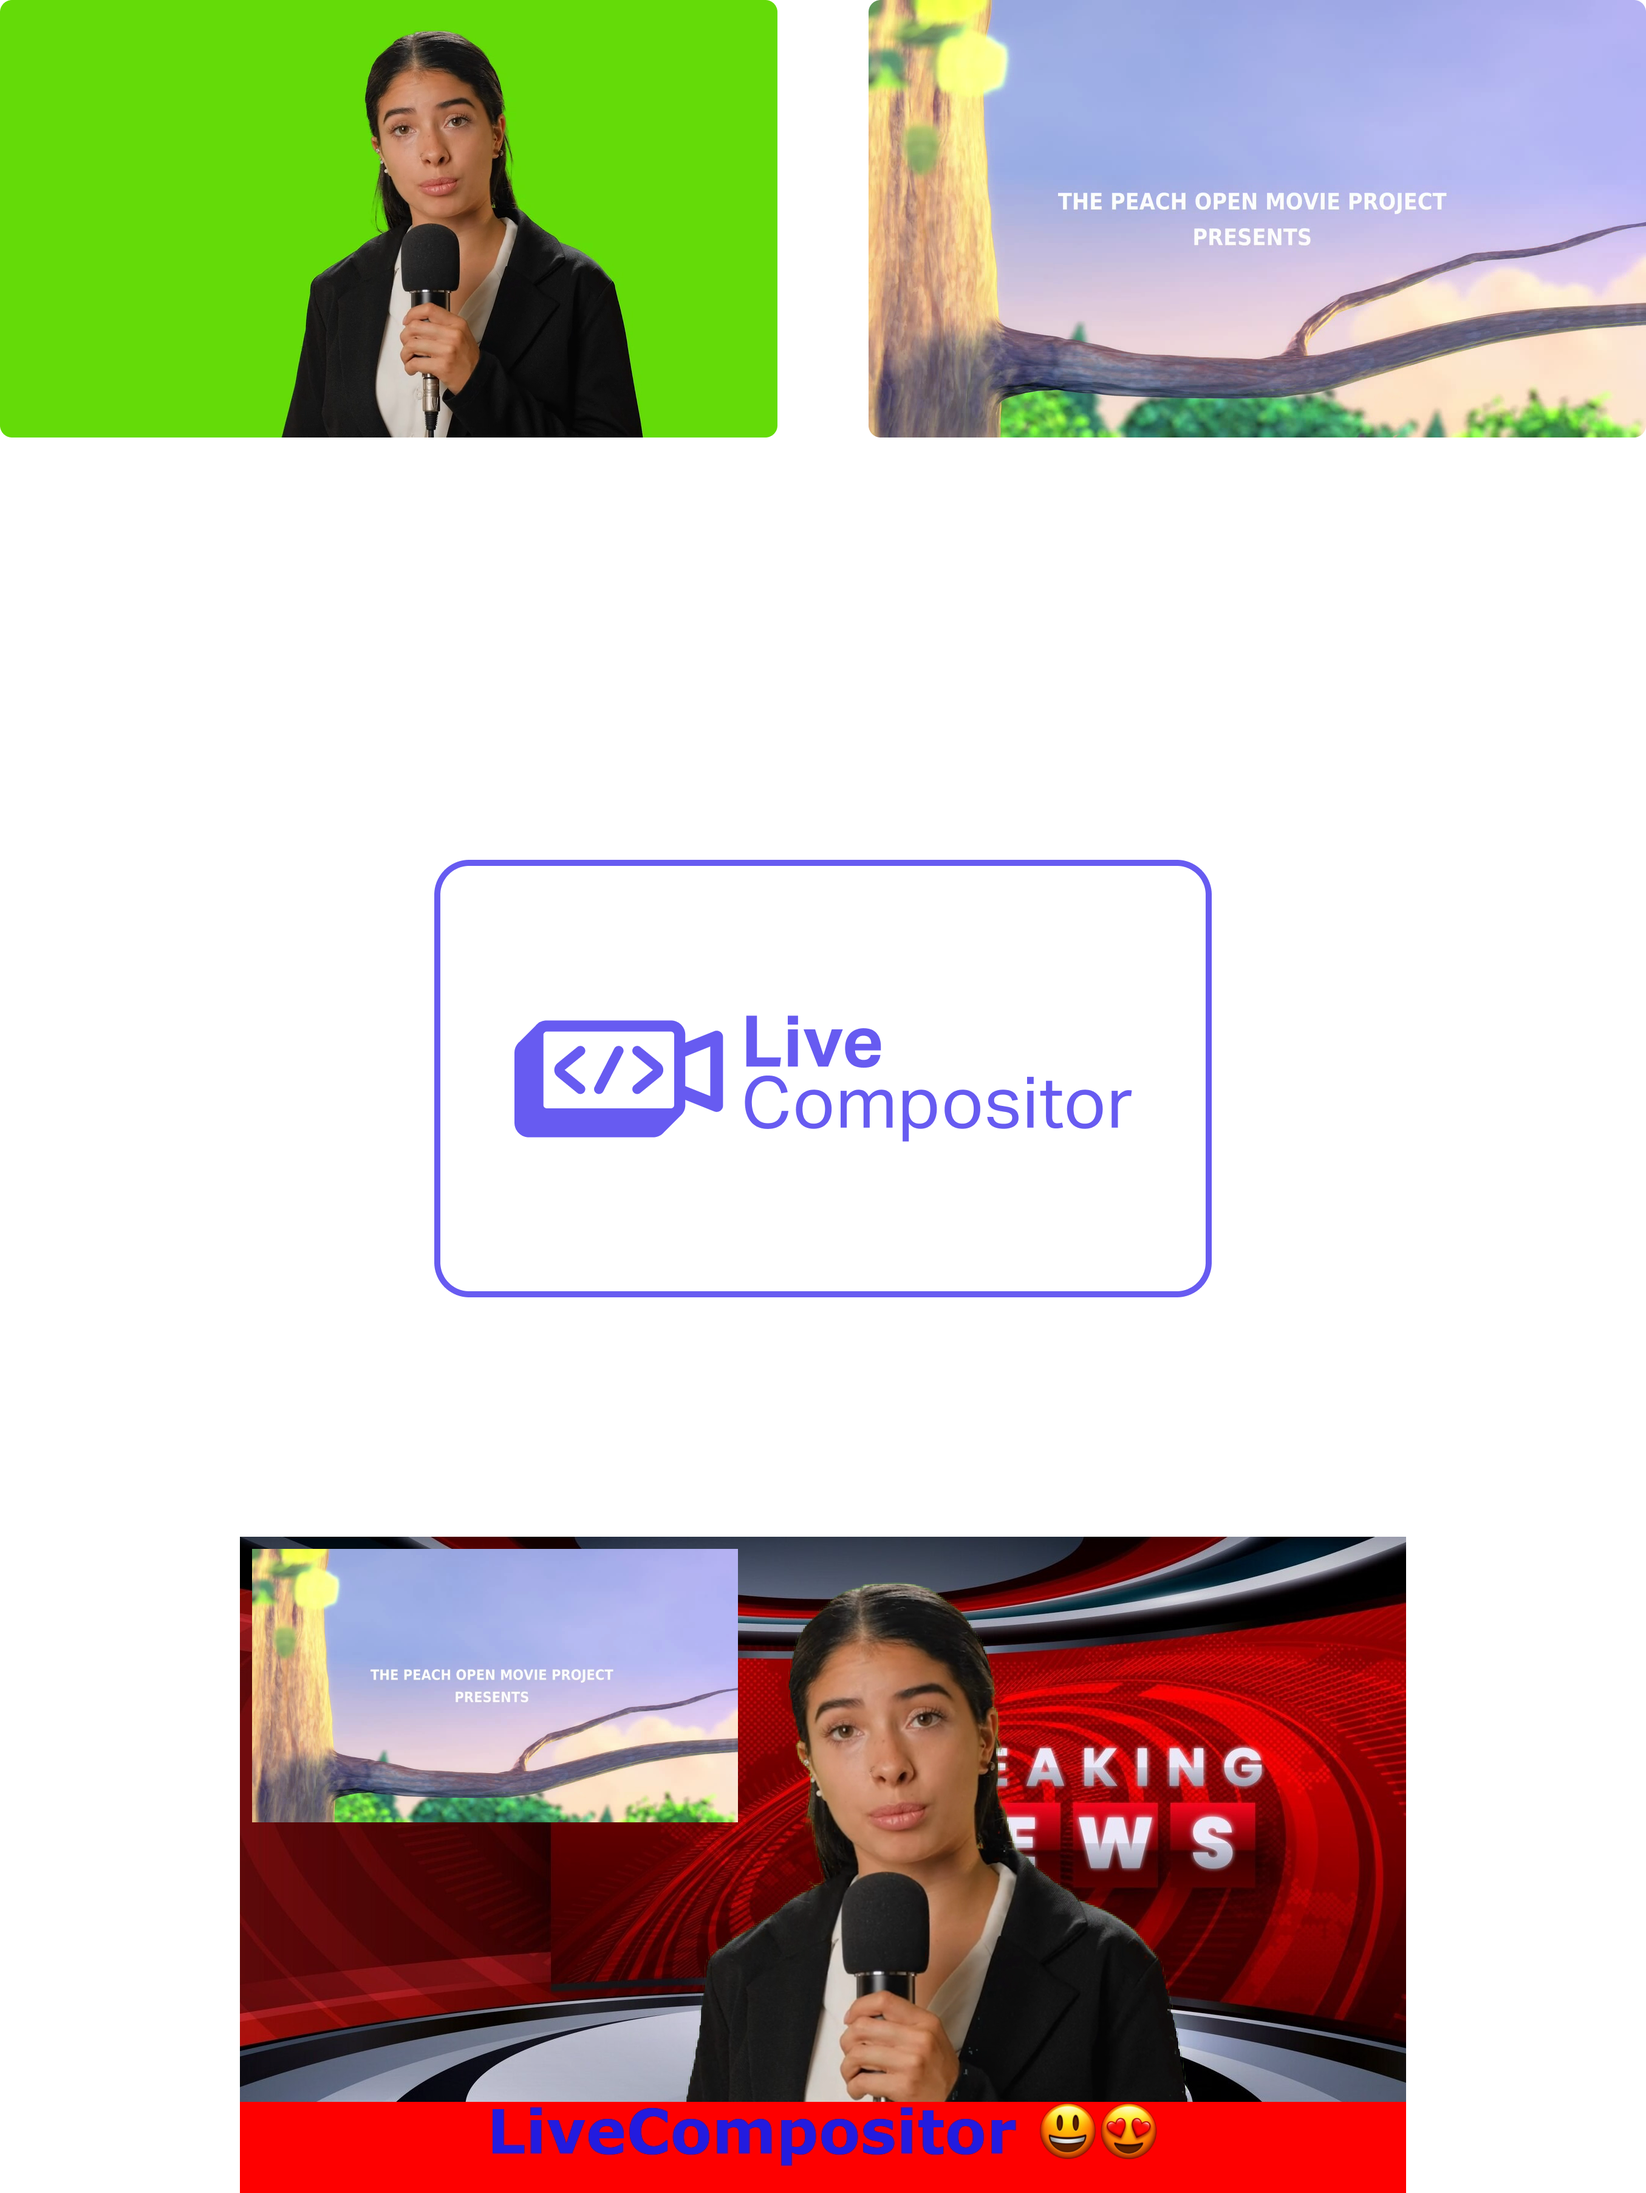
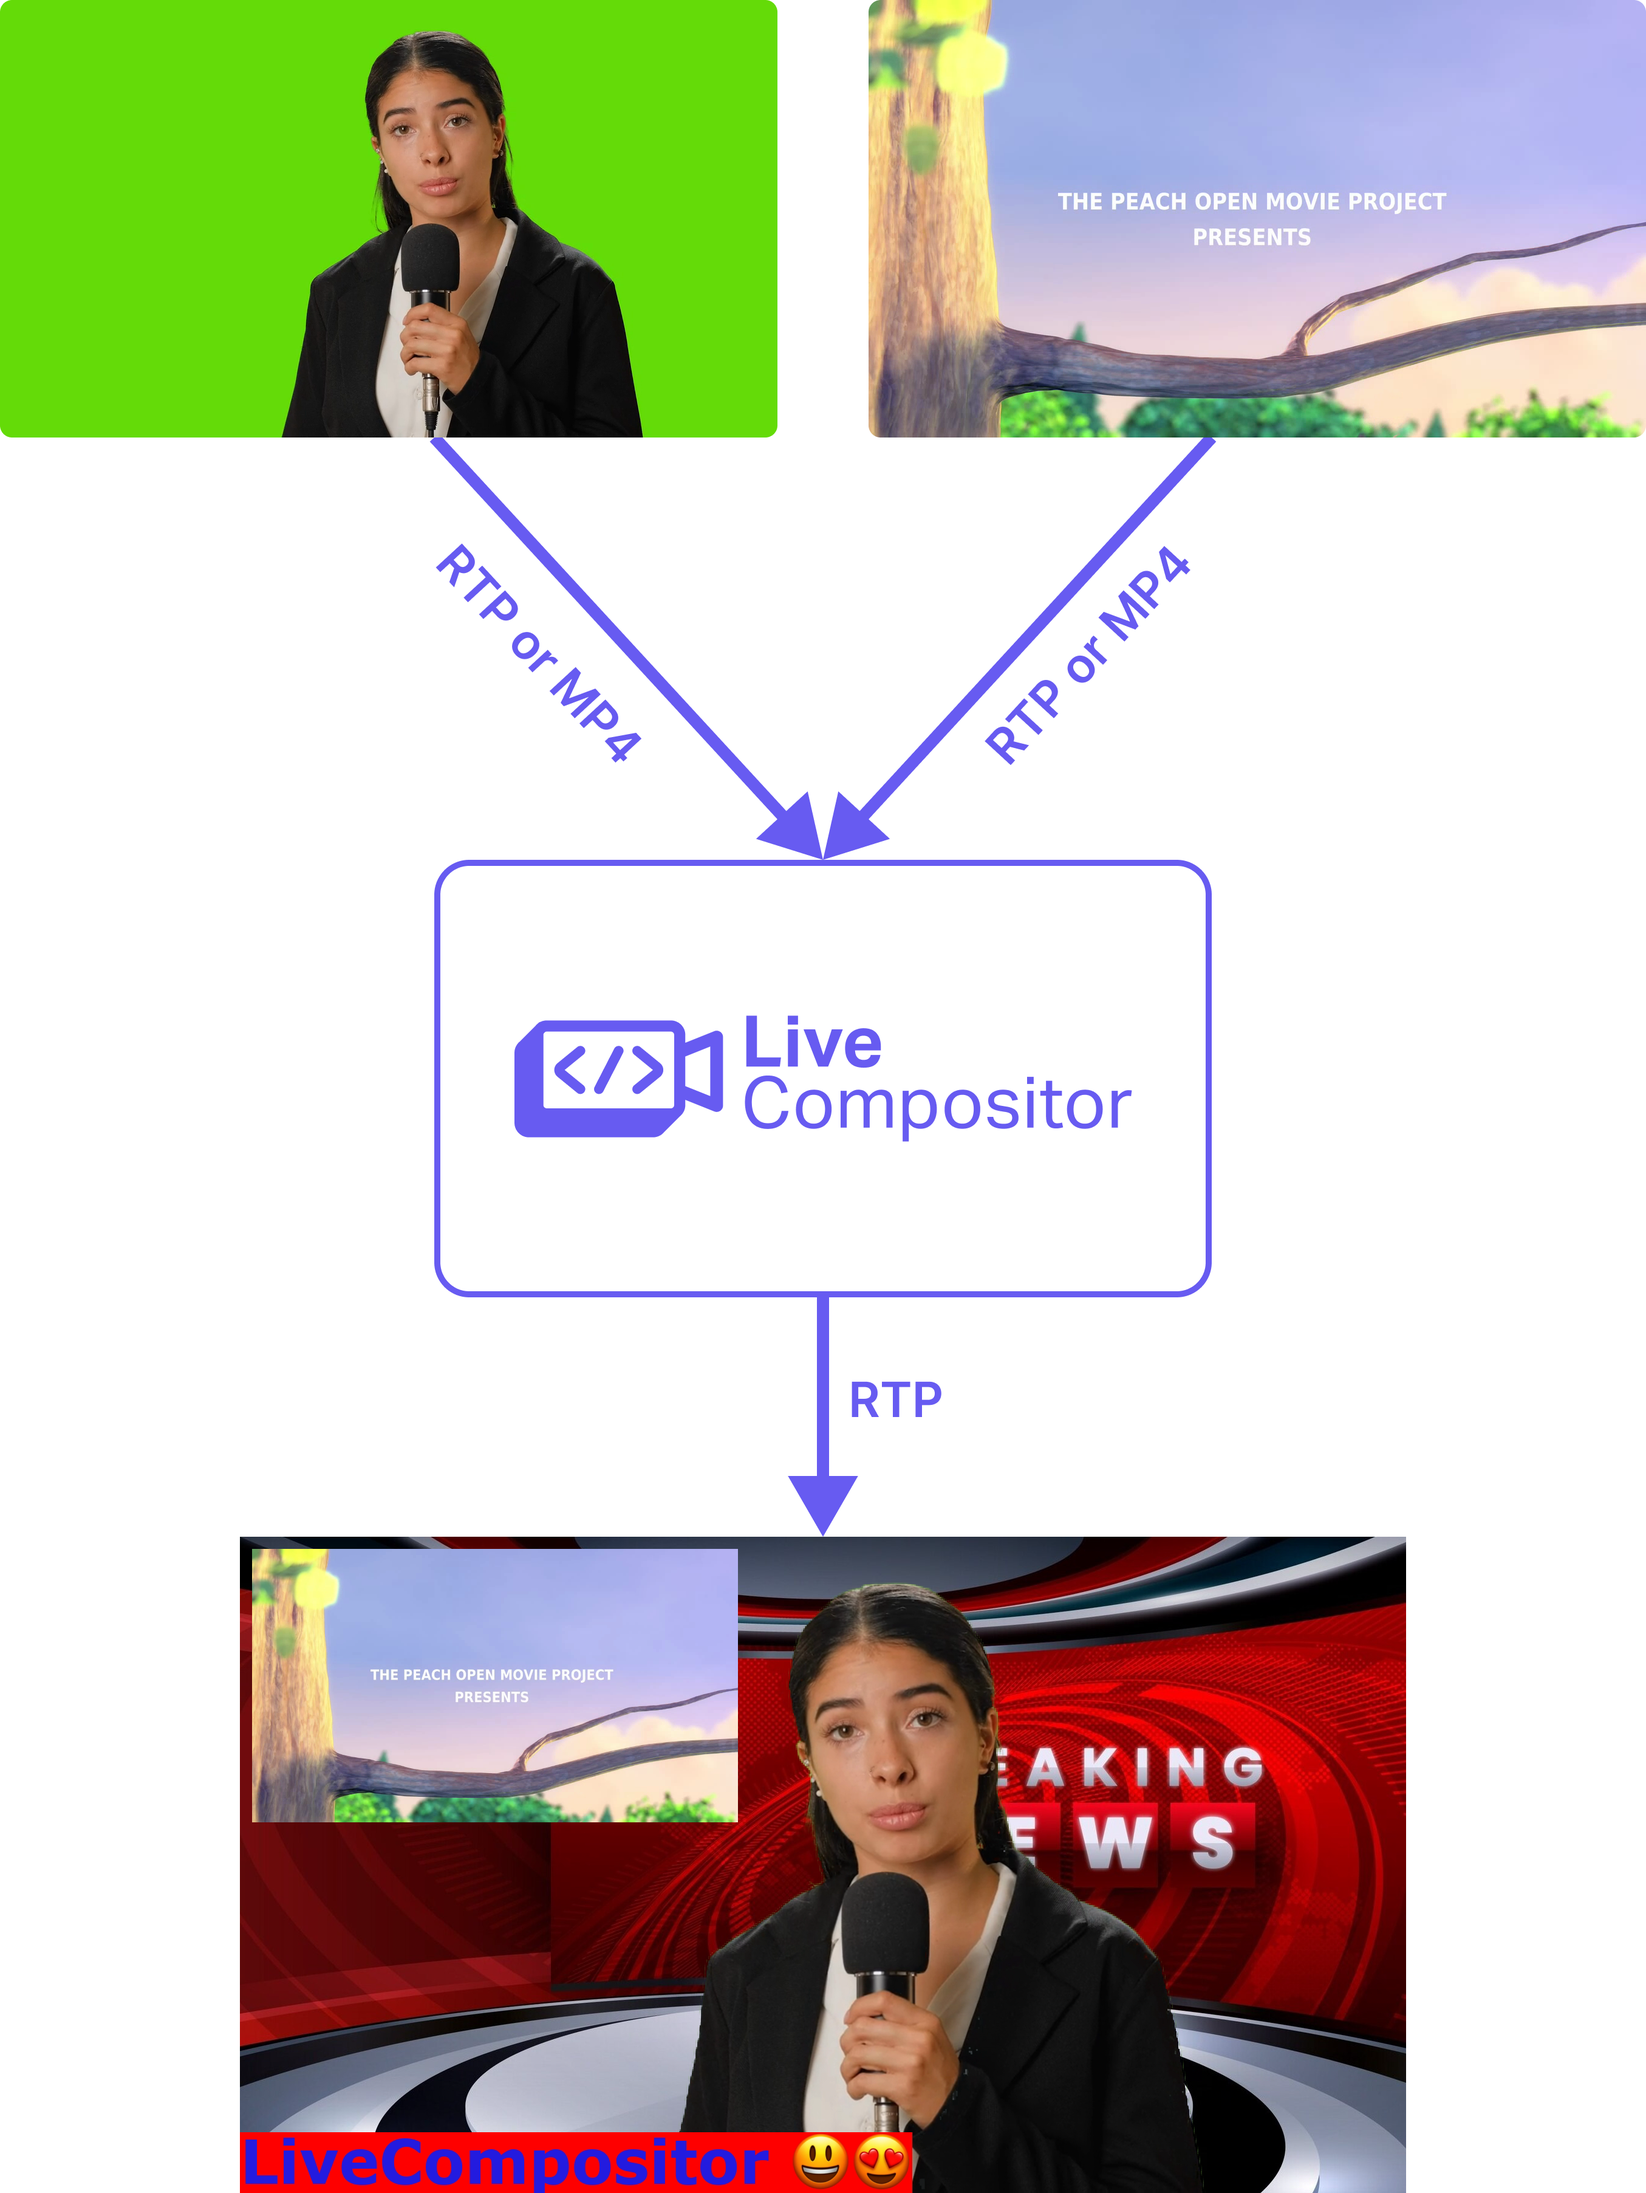
Improve styling, fix layout change on mobile, finish applications section

diff --git a/docs/src/pages/index.tsx b/docs/src/pages/index.tsx
@@ -40,15 +40,17 @@ function HomepageHeader() {
           <div className="container">
             <Heading as="h1" style={{ fontSize: 55 }}>
               <span className="text--primary">Mix video and audio</span>
-              <TypewriterComponent
-                options={{
-                  strings: ['in real-time.', 'using code.', 'with low-latency.'],
-                  autoStart: true,
-                  loop: true,
-                  deleteSpeed: 30,
-                  delay: 80,
-                }}
-              />
+              <div className={styles.typewriter}>
+                <TypewriterComponent
+                  options={{
+                    strings: ['in real-time.', 'using code.', 'with low-latency.'],
+                    autoStart: true,
+                    loop: true,
+                    deleteSpeed: 30,
+                    delay: 80,
+                  }}
+                />
+              </div>
             </Heading>
             <p className={styles.sectionSubheading}>
               Open-source media server for real-time, low-latency, programmable video and audio
@@ -120,7 +122,7 @@ function HowItWorks() {
   );
 }
 
-function UseCases() {
+function Applications() {
   return (
     <div className="container margin-top--md">
       <Heading as="h1" className="margin-bottom--md text--center text--primary">
@@ -128,16 +130,15 @@ function UseCases() {
       </Heading>
       <p className={clsx('text--center', styles.sectionSubheading)}>
         Use LiveCompositor for video conferencing, live-streaming, broadcasting, and more.
-        <br />
       </p>
       <div className="row">
-        <UseCaseCard
+        <ApplicationCard
           title="Video conferencing"
           subtitle="Stream or record video conferences"
           img={VideoConferencingImg}
         />
-        <UseCaseCard title="Broadcasting" subtitle="Compose broadcasts" img={BroadcastingImg} />
-        <UseCaseCard
+        <ApplicationCard title="Broadcasting" subtitle="Compose broadcasts" img={BroadcastingImg} />
+        <ApplicationCard
           title="Live-streaming"
           subtitle="Create awesome live-streams"
           img={StreamingImg}
@@ -147,20 +148,23 @@ function UseCases() {
   );
 }
 
-type UseCaseCardProps = {
+type ApplicationCardProps = {
   title: string;
   subtitle: string;
   img: any;
 };
 
-function UseCaseCard(props: UseCaseCardProps) {
+function ApplicationCard(props: ApplicationCardProps) {
   return (
     <div className={clsx('card', styles.card, styles.hoverPrimary)}>
       <div className="text--primary">
-        <Heading as="h2" style={{ textAlign: 'center' }}>
+        <Heading as="h2" style={{ textAlign: 'center', margin: 0 }}>
           {props.title}
         </Heading>
       </div>
+      <p className={clsx('text--center', styles.sectionSubheading)} style={{ margin: 0 }}>
+        {props.subtitle}
+      </p>
       <div className="card__body">
         <img src={props.img} alt={props.title} />
       </div>
@@ -168,7 +172,7 @@ function UseCaseCard(props: UseCaseCardProps) {
   );
 }
 
-function ProsCards() {
+function VisionCards() {
   return (
     <div className="container margin-top--md">
       <Heading as="h1" className="margin-bottom--md text--center text--primary">
@@ -276,7 +280,7 @@ function Features() {
 
       <Feature
         text="Highly customizable"
-        secondaryText="To create custom effects you can write own WGSL shaders and directly leverage GPU parallel processing capabilities."
+        secondaryText="Create custom effects with WGSL shaders and directly leverage GPU parallel processing capabilities."
         image={wgpuLogo}
       />
 
@@ -296,12 +300,6 @@ function Features() {
         text="Easy deployment"
         secondaryText="Docker images, nix configs, and guides are made to make deployment as easy as possible."
         image={<FaDocker className={styles.featureIcon} style={{ fontSize: 80 }} />}
-      />
-
-      <Feature
-        text="Membrane plugin"
-        secondaryText="Membrane is a developer-friendly multimedia framework for Elixir. You can easily add video composing functionality into your multimedia pipeline using Membrane LiveCompositor Plugin."
-        image={<MembraneLogo className={styles.featureIcon} width={80} height={80} />}
       />
     </div>
   );
@@ -414,9 +412,9 @@ export default function Home(): JSX.Element {
       <div className={styles.sectionSeparator} />
       <HowItWorks />
       <div className={styles.sectionSeparator} />
-      <UseCases />
+      <Applications />
       <div className={styles.sectionSeparator} />
-      <ProsCards />
+      <VisionCards />
       <div className={styles.sectionSeparator} />
       <Features />
       <div className={styles.sectionSeparator} />

diff --git a/docs/src/pages/index.module.css b/docs/src/pages/index.module.css
@@ -9,12 +9,17 @@
   margin-top: 20px;
 }
 
+@media (max-width: 510px) {
+  .typewriter {
+    height: 2.3em;
+  }
+}
+
 .card {
   flex: 1;
   min-width: 330px;
   margin: 10px;
   padding-top: 20px;
-  height: 300px;
   border-width: 1px;
   border-style: solid;
   border-color: var(--ifm-color-emphasis-200);
@@ -139,8 +144,8 @@
 }
 
 .hoverPrimary:hover {
-  transform: scale(1.03);
-  box-shadow: 0 0 20px var(--ifm-color-primary);
+  transform: scale(1.015);
+  box-shadow: 0 0 15px var(--ifm-color-primary);
 }
 
 .hoverSecondary {

diff --git a/docs/src/pages/example_scene.tsx b/docs/src/pages/example_scene.tsx
@@ -31,10 +31,10 @@ export default function ExampleScene() {
       "left": 0, "bottom": 0, "height": 150,
       "background_color_rgba": "#FF0000FF",
       "children": [{
-          "type": "text", 
-          "text": "LiveCompositor 😃😍",
-          "font_size": 100,
-          "color_rgba": "#675BF1FF"
+        "type": "text", 
+        "text": "LiveCompositor 😃😍",
+        "font_size": 100, "weight": "bold",
+        "color_rgba": "#675BF1FF",
       }]
     }
   ]

diff --git a/docs/docusaurus.config.ts b/docs/docusaurus.config.ts
@@ -93,8 +93,7 @@ const config: Config = {
       copyright: `Copyright © ${new Date().getFullYear()} Software Mansion S.A.`,
     },
     prism: {
-      theme: prismThemes.github,
-      darkTheme: prismThemes.dracula,
+      theme: prismThemes.duotoneDark,
       additionalLanguages: ['wgsl', 'http', 'elixir', 'bash'],
     },
   } satisfies Preset.ThemeConfig,
